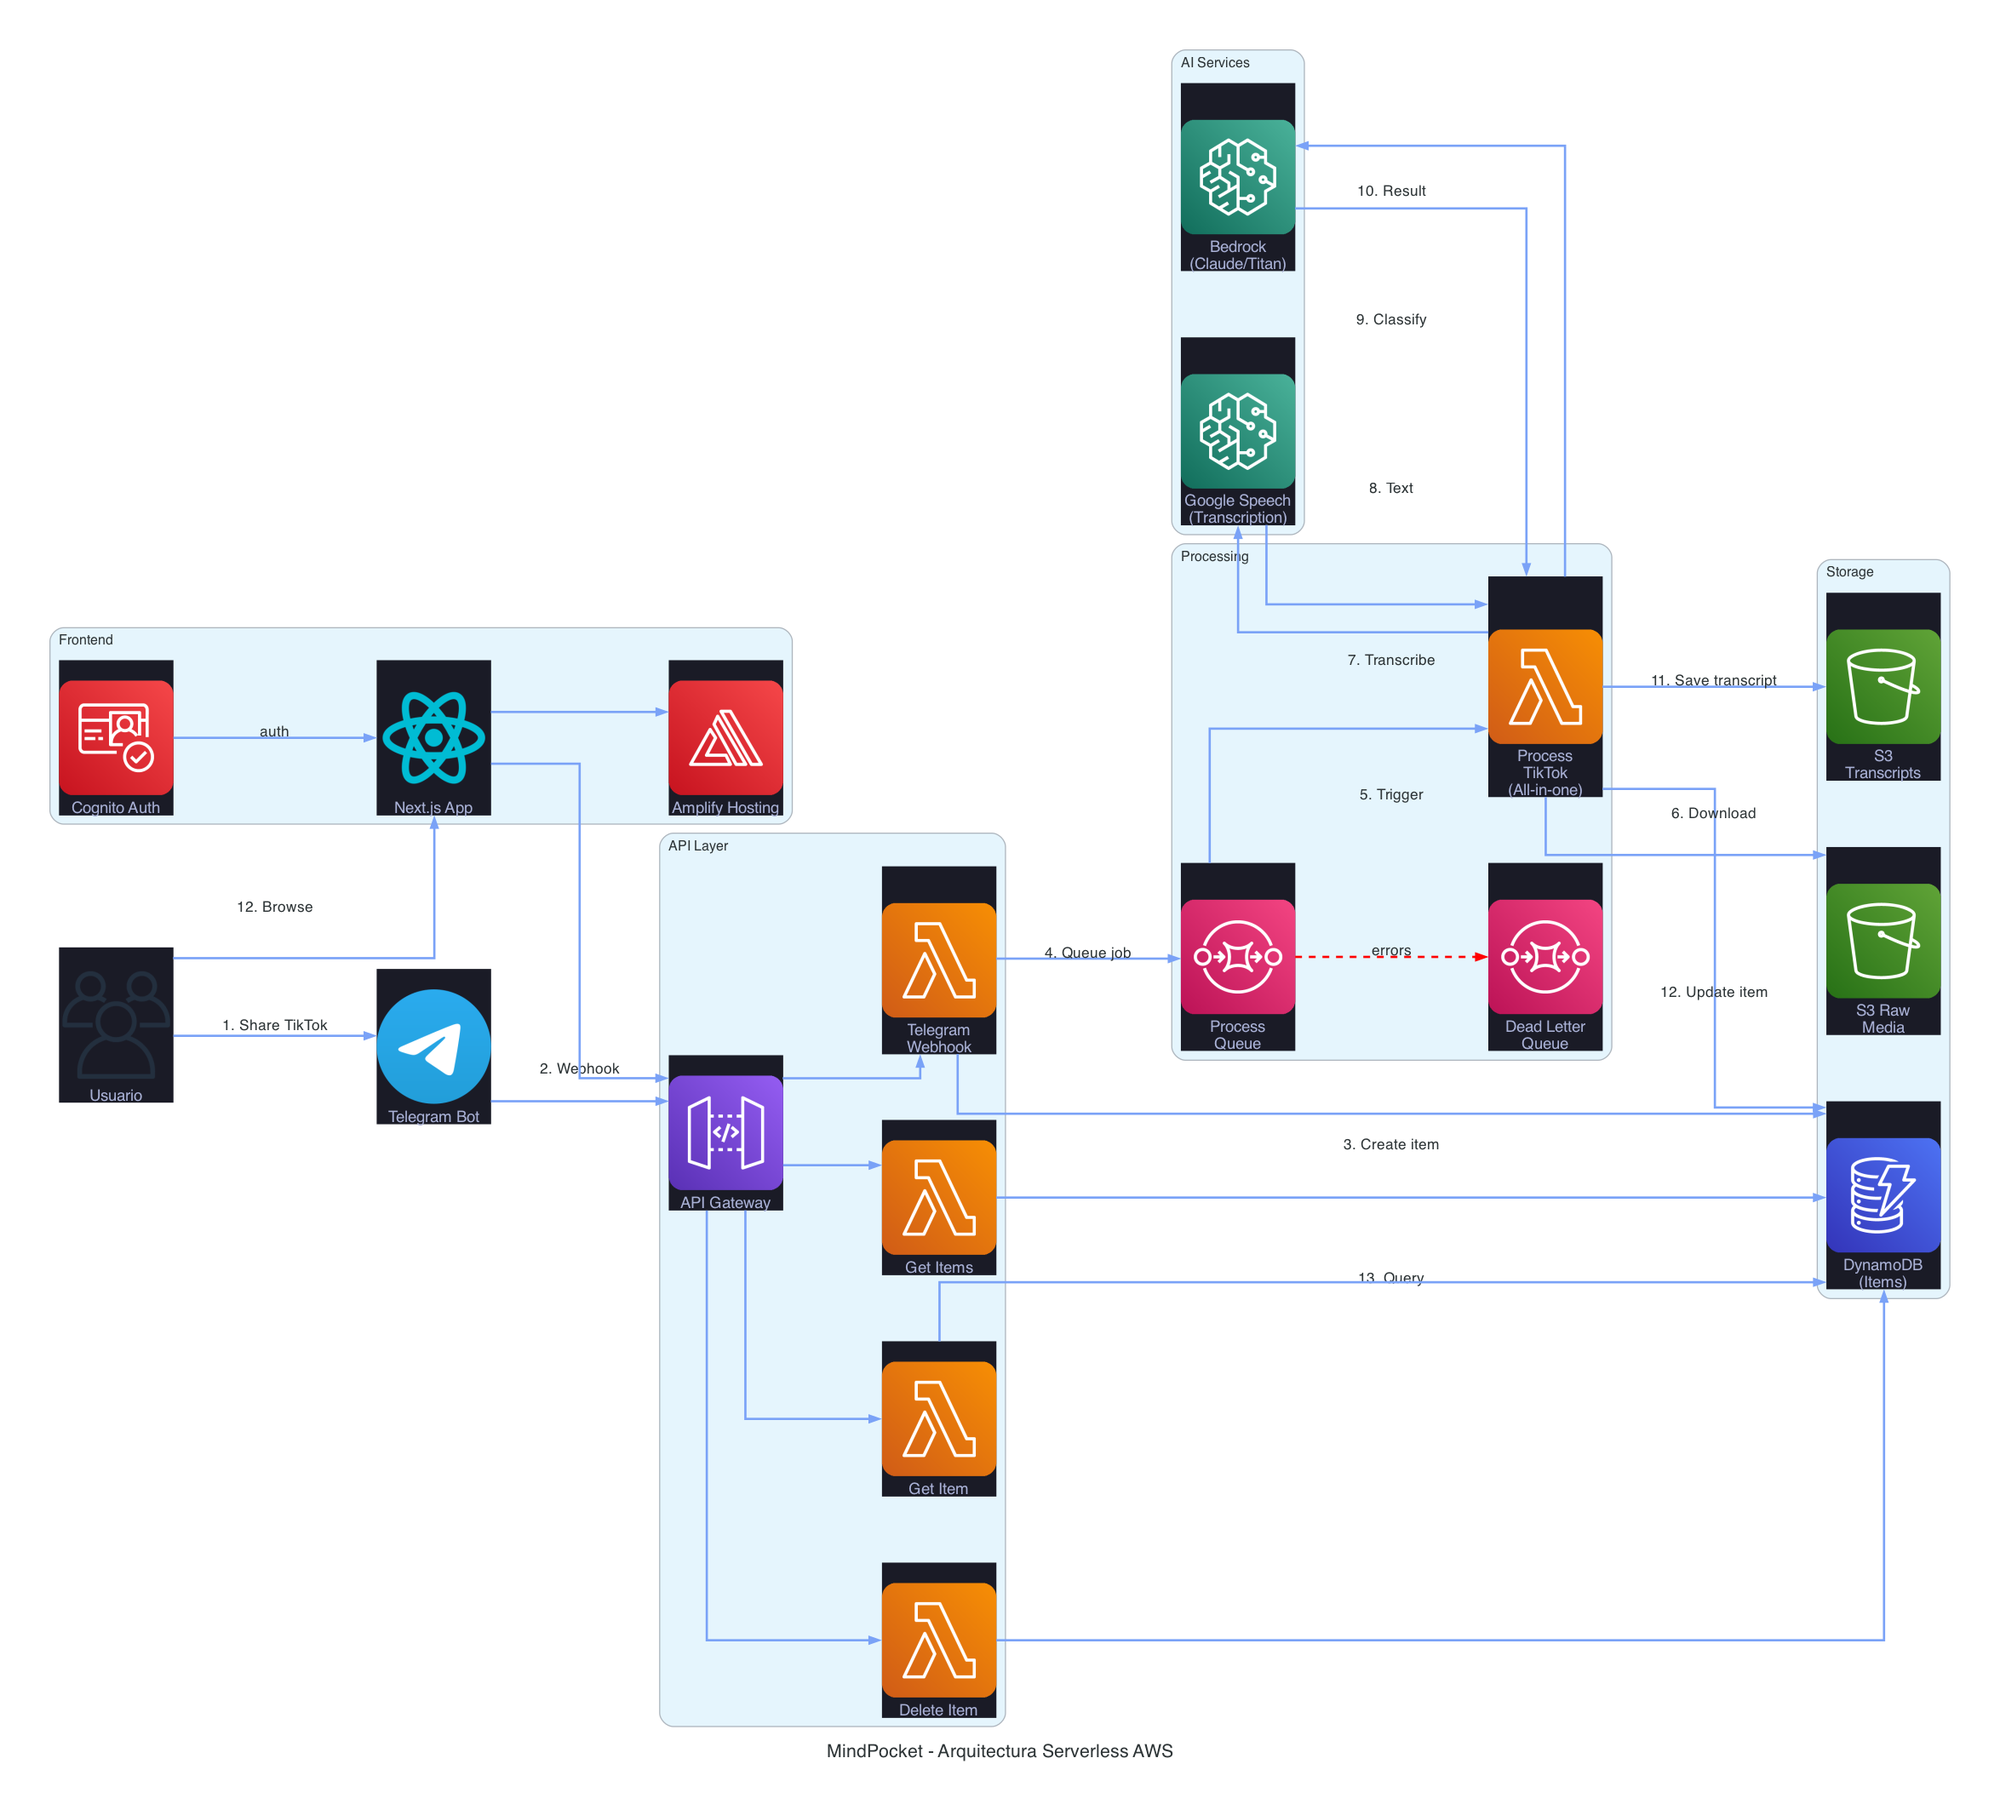
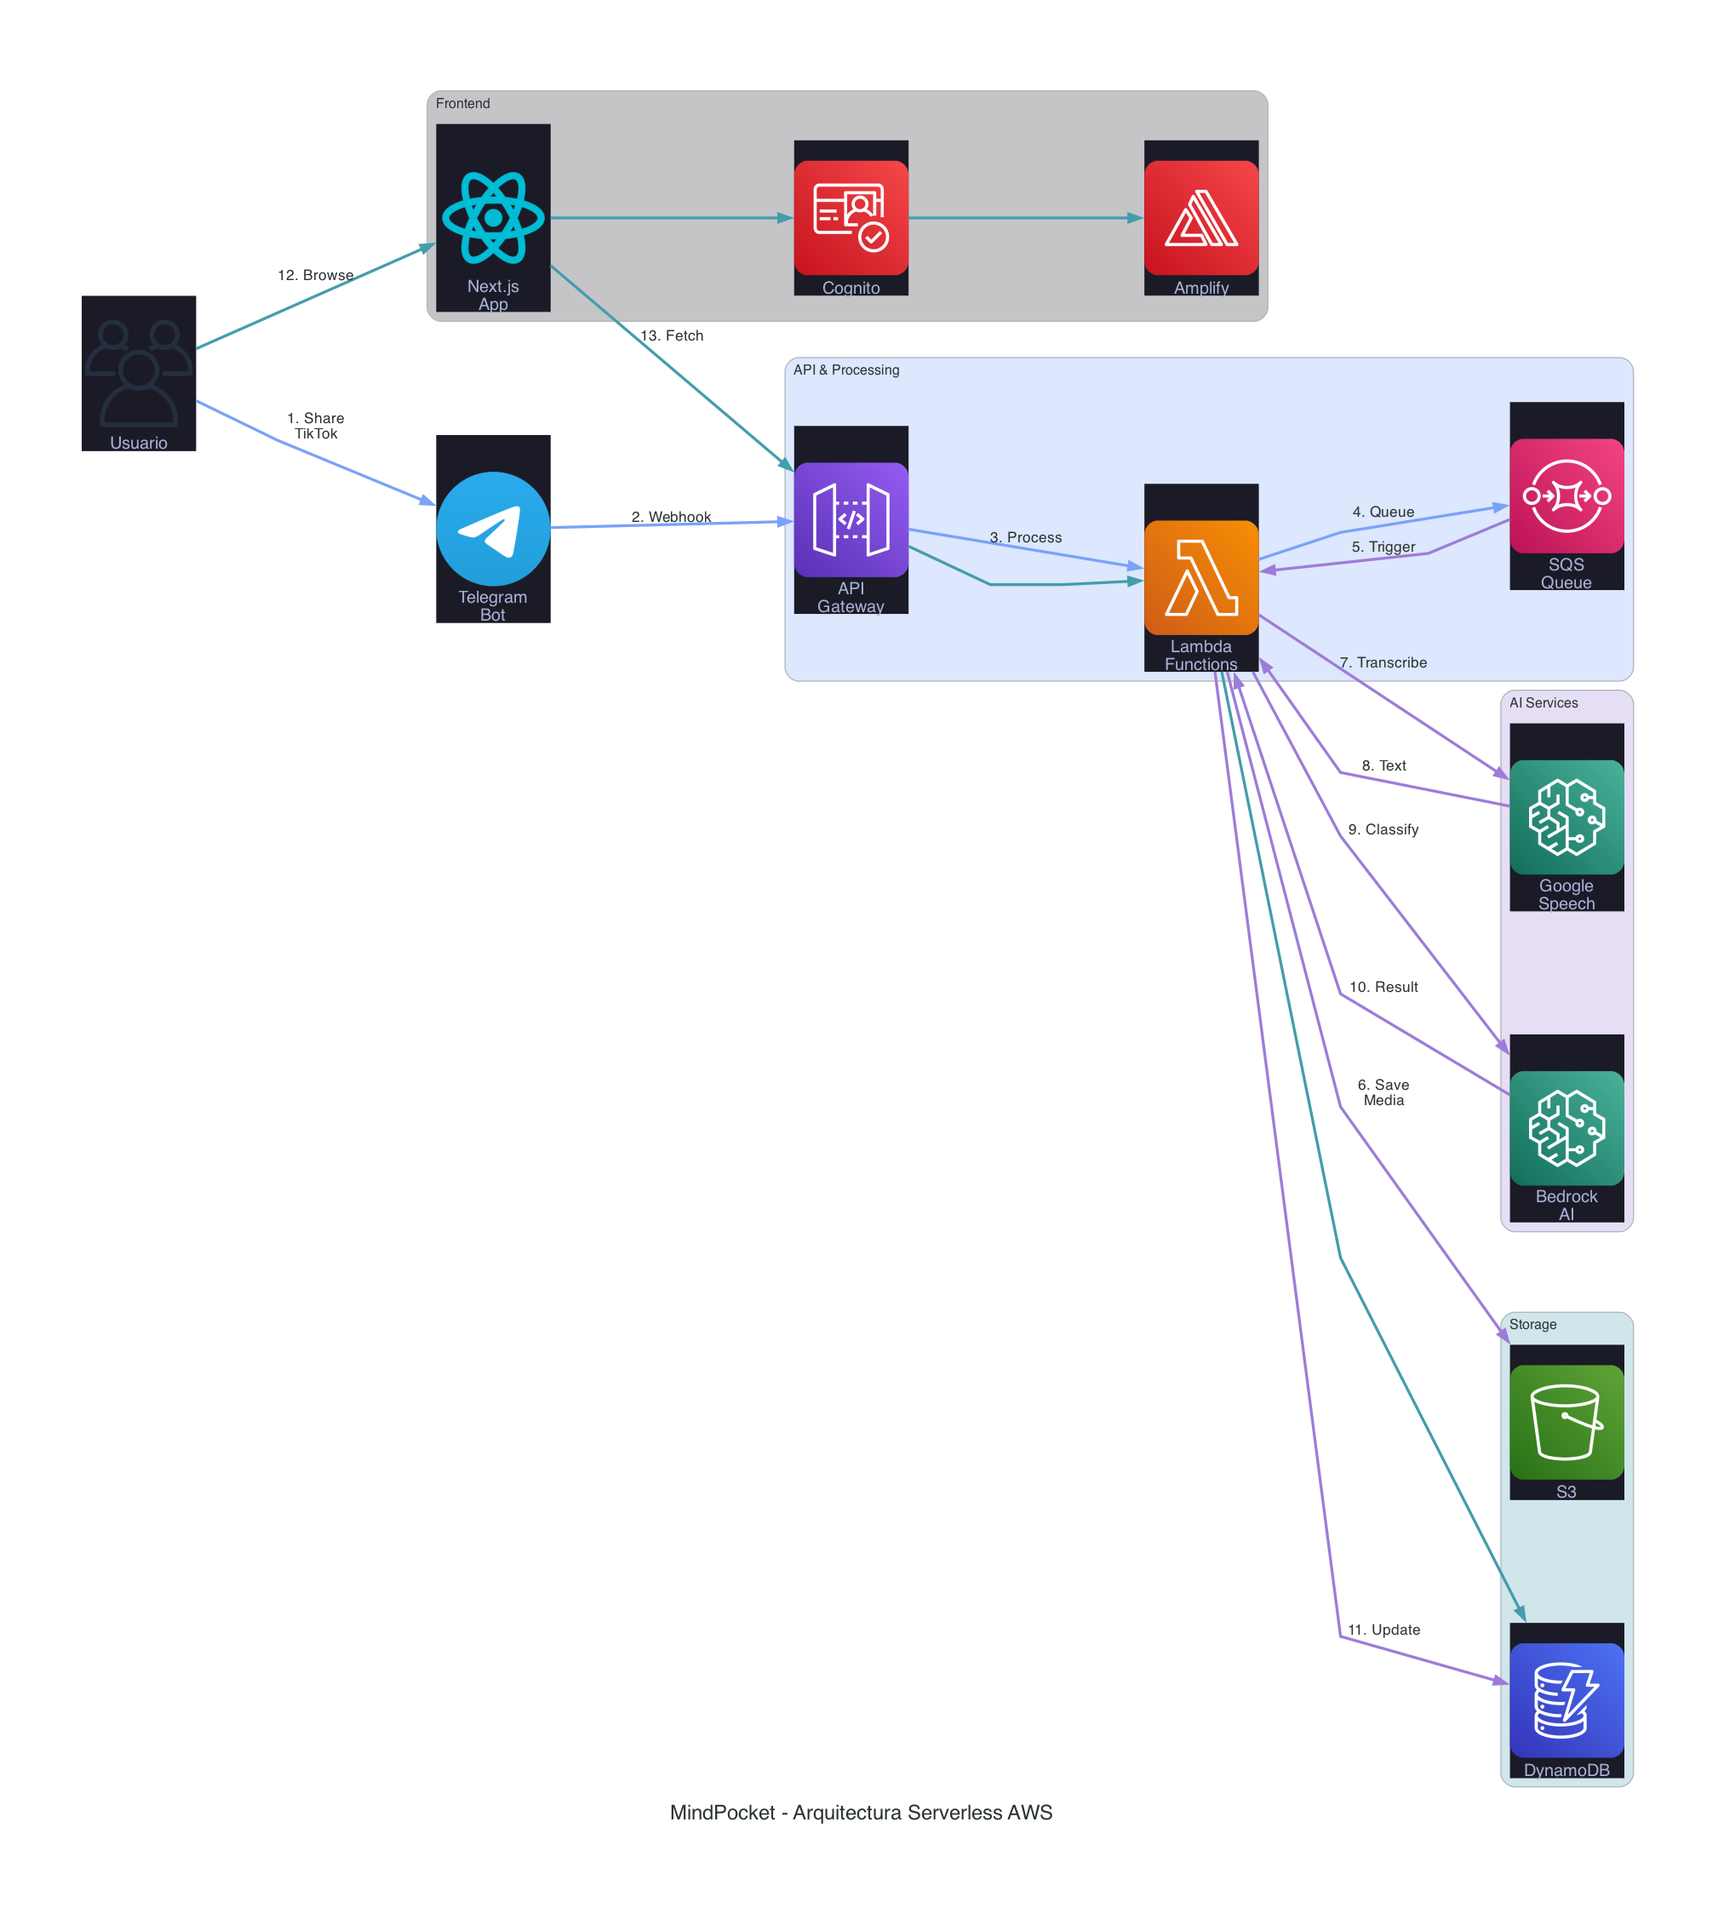
improve: simplify architecture diagram and optimize Slide6 layout

diff --git a/MindPocket-Slides-Hack112025/src/slides/Slide6.tsx b/MindPocket-Slides-Hack112025/src/slides/Slide6.tsx
@@ -1,73 +1,92 @@
-import { Cloud, Database, Cpu, Zap, Network } from 'lucide-react'
+import { Cloud, Database, Cpu, Zap, Network, ArrowRight } from 'lucide-react'
 
 export default function Slide6() {
   return (
-    <div className="max-w-7xl mx-auto space-y-6 h-full flex flex-col">
-      <div className="text-center space-y-2">
-        <div className="inline-flex items-center justify-center w-14 h-14 rounded-full bg-primary/20 mb-2">
-          <Cloud className="w-7 h-7 text-primary" />
+    <div className="max-w-7xl mx-auto h-full flex flex-col py-6">
+      {/* Header - Más compacto */}
+      <div className="text-center space-y-1 mb-4">
+        <div className="inline-flex items-center justify-center w-12 h-12 rounded-full bg-primary/20">
+          <Cloud className="w-6 h-6 text-primary" />
         </div>
-        <h1 className="text-4xl font-bold">
+        <h1 className="text-3xl font-bold">
           Arquitectura serverless en AWS
         </h1>
-        <p className="text-lg text-muted-foreground">
-          Escalable, eficiente y moderna
+        <p className="text-base text-muted-foreground">
+          Flujo completo de procesamiento
         </p>
       </div>
 
-      {/* Architecture Diagram */}
-      <div className="flex-1 flex items-center justify-center">
-        <div className="glass-card p-6 rounded-3xl w-full">
+      {/* Architecture Diagram - Más espacio */}
+      <div className="flex-1 flex items-center justify-center min-h-0">
+        <div className="glass-card p-4 rounded-2xl w-full h-full flex items-center justify-center">
           <img 
             src="/mindpocket_architecture.png" 
             alt="MindPocket Architecture Diagram"
-            className="w-full h-auto rounded-xl"
-            style={{ maxHeight: '550px', objectFit: 'contain' }}
+            className="max-w-full max-h-full object-contain"
           />
         </div>
       </div>
 
-      {/* Key Components - Compact */}
-      <div className="grid grid-cols-4 gap-4">
-        <div className="glass-card p-4 rounded-xl">
-          <div className="flex items-center gap-2 mb-2">
-            <Zap className="w-5 h-5 text-primary" />
-            <h3 className="text-sm font-semibold">Frontend</h3>
+      {/* Key Components - Grid simplificado */}
+      <div className="grid grid-cols-4 gap-3 mt-4">
+        <div className="glass-card p-3 rounded-xl">
+          <div className="flex items-center gap-2">
+            <Zap className="w-4 h-4 text-primary" />
+            <div>
+              <h3 className="text-xs font-semibold">Frontend</h3>
+              <p className="text-[10px] text-muted-foreground">Next.js + Amplify</p>
+            </div>
           </div>
-          <p className="text-xs text-muted-foreground">
-            Amplify + Cognito + Next.js
-          </p>
         </div>
 
-        <div className="glass-card p-4 rounded-xl">
-          <div className="flex items-center gap-2 mb-2">
-            <Cpu className="w-5 h-5 text-success" />
-            <h3 className="text-sm font-semibold">Backend</h3>
+        <div className="glass-card p-3 rounded-xl">
+          <div className="flex items-center gap-2">
+            <Cpu className="w-4 h-4 text-success" />
+            <div>
+              <h3 className="text-xs font-semibold">API & Processing</h3>
+              <p className="text-[10px] text-muted-foreground">Lambda + SQS</p>
+            </div>
           </div>
-          <p className="text-xs text-muted-foreground">
-            API Gateway + Lambda + SQS
-          </p>
         </div>
 
-        <div className="glass-card p-4 rounded-xl">
-          <div className="flex items-center gap-2 mb-2">
-            <Database className="w-5 h-5 text-chart-3" />
-            <h3 className="text-sm font-semibold">Datos & AI</h3>
+        <div className="glass-card p-3 rounded-xl">
+          <div className="flex items-center gap-2">
+            <Database className="w-4 h-4 text-chart-3" />
+            <div>
+              <h3 className="text-xs font-semibold">AI Services</h3>
+              <p className="text-[10px] text-muted-foreground">Google + Bedrock</p>
+            </div>
           </div>
-          <p className="text-xs text-muted-foreground">
-            S3 + Google Speech + Bedrock
-          </p>
         </div>
 
-        <div className="glass-card p-4 rounded-xl">
-          <div className="flex items-center gap-2 mb-2">
-            <Network className="w-5 h-5 text-chart-4" />
-            <h3 className="text-sm font-semibold">Integración</h3>
+        <div className="glass-card p-3 rounded-xl">
+          <div className="flex items-center gap-2">
+            <Network className="w-4 h-4 text-chart-4" />
+            <div>
+              <h3 className="text-xs font-semibold">Storage</h3>
+              <p className="text-[10px] text-muted-foreground">DynamoDB + S3</p>
+            </div>
           </div>
-          <p className="text-xs text-muted-foreground">
-            Telegram Bot API
-          </p>
         </div>
+      </div>
+
+      {/* Flow description */}
+      <div className="glass-card p-2 rounded-xl bg-primary/5 border border-primary/30 text-center mt-3">
+        <p className="text-xs flex items-center justify-center gap-2 text-muted-foreground">
+          <span>TikTok</span>
+          <ArrowRight className="w-3 h-3" />
+          <span>Telegram</span>
+          <ArrowRight className="w-3 h-3" />
+          <span>API</span>
+          <ArrowRight className="w-3 h-3" />
+          <span>Processing</span>
+          <ArrowRight className="w-3 h-3" />
+          <span>AI</span>
+          <ArrowRight className="w-3 h-3" />
+          <span>DynamoDB</span>
+          <ArrowRight className="w-3 h-3" />
+          <span>App</span>
+        </p>
       </div>
     </div>
   )

diff --git a/MindPocket-Slides-Hack112025/generate_architecture_diagram.py b/MindPocket-Slides-Hack112025/generate_architecture_diagram.py
@@ -1,6 +1,6 @@
 #!/usr/bin/env python3
 """
-Generate MindPocket Architecture Diagram
+Generate MindPocket Architecture Diagram - Simplified Version
 Requires: pip install diagrams
 """
 
@@ -12,34 +12,34 @@ from diagrams.aws.integration import SQS
 from diagrams.aws.network import APIGateway
 from diagrams.aws.security import Cognito
 from diagrams.aws.mobile import Amplify
-from diagrams.aws.ml import Transcribe, Sagemaker
+from diagrams.aws.ml import Sagemaker
 from diagrams.onprem.client import Users
 from diagrams.saas.chat import Telegram
 from diagrams.programming.framework import React
 
-# Configure diagram
+# Configure diagram - cleaner layout
 graph_attr = {
-    "fontsize": "16",
+    "fontsize": "18",
     "bgcolor": "transparent",
-    "pad": "0.5",
-    "splines": "ortho",
-    "nodesep": "0.8",
-    "ranksep": "1.2"
+    "pad": "1.0",
+    "splines": "polyline",
+    "nodesep": "1.5",
+    "ranksep": "2.0"
 }
 
 node_attr = {
-    "fontsize": "14",
+    "fontsize": "15",
     "style": "filled",
     "fillcolor": "#1a1b26",
     "fontcolor": "#a9b1d6",
     "color": "#7aa2f7",
-    "penwidth": "2"
+    "penwidth": "2.5"
 }
 
 edge_attr = {
     "color": "#7aa2f7",
-    "penwidth": "2",
-    "arrowsize": "0.8"
+    "penwidth": "2.5",
+    "arrowsize": "1.0"
 }
 
 with Diagram(
@@ -55,71 +55,47 @@ with Diagram(
     
     # Users & Input
     user = Users("Usuario")
-    telegram = Telegram("Telegram Bot")
+    telegram = Telegram("Telegram\nBot")
     
-    with Cluster("Frontend"):
-        amplify = Amplify("Amplify Hosting")
-        cognito = Cognito("Cognito Auth")
-        react = React("Next.js App")
-        
-        cognito >> Edge(label="auth") >> react
-        react >> amplify
+    with Cluster("Frontend", graph_attr={"bgcolor": "#1a1b2640"}):
+        react = React("Next.js\nApp")
+        amplify = Amplify("Amplify")
+        cognito = Cognito("Cognito")
     
-    with Cluster("API Layer"):
-        api_gateway = APIGateway("API Gateway")
-        telegram_lambda = Lambda("Telegram\nWebhook")
-        get_items_lambda = Lambda("Get Items")
-        get_item_lambda = Lambda("Get Item")
-        delete_lambda = Lambda("Delete Item")
+    with Cluster("API & Processing", graph_attr={"bgcolor": "#7aa2f740"}):
+        api_gateway = APIGateway("API\nGateway")
+        lambdas = Lambda("Lambda\nFunctions")
+        process_queue = SQS("SQS\nQueue")
     
-    with Cluster("Processing"):
-        process_queue = SQS("Process\nQueue")
-        dlq = SQS("Dead Letter\nQueue")
-        process_lambda = Lambda("Process\nTikTok\n(All-in-one)")
+    with Cluster("AI Services", graph_attr={"bgcolor": "#9d7cd840"}):
+        google_speech = Sagemaker("Google\nSpeech")
+        bedrock = Sagemaker("Bedrock\nAI")
     
-    with Cluster("AI Services"):
-        google_speech = Sagemaker("Google Speech\n(Transcription)")
-        bedrock = Sagemaker("Bedrock\n(Claude/Titan)")
+    with Cluster("Storage", graph_attr={"bgcolor": "#449dab40"}):
+        dynamodb = Dynamodb("DynamoDB")
+        s3 = S3("S3")
     
-    with Cluster("Storage"):
-        dynamodb = Dynamodb("DynamoDB\n(Items)")
-        raw_media_s3 = S3("S3 Raw\nMedia")
-        transcripts_s3 = S3("S3\nTranscripts")
+    # Main Flow: Share TikTok
+    user >> Edge(label="1. Share\nTikTok", color="#7aa2f7") >> telegram
+    telegram >> Edge(label="2. Webhook", color="#7aa2f7") >> api_gateway
+    api_gateway >> Edge(label="3. Process", color="#7aa2f7") >> lambdas
+    lambdas >> Edge(label="4. Queue", color="#7aa2f7") >> process_queue
     
-    # Flow: User sends TikTok link via Telegram
-    user >> Edge(label="1. Share TikTok") >> telegram
-    telegram >> Edge(label="2. Webhook") >> api_gateway
-    api_gateway >> telegram_lambda
+    # Processing Flow
+    process_queue >> Edge(label="5. Trigger", color="#9d7cd8") >> lambdas
+    lambdas >> Edge(label="6. Save\nMedia", color="#9d7cd8") >> s3
+    lambdas >> Edge(label="7. Transcribe", color="#9d7cd8") >> google_speech
+    google_speech >> Edge(label="8. Text", color="#9d7cd8") >> lambdas
+    lambdas >> Edge(label="9. Classify", color="#9d7cd8") >> bedrock
+    bedrock >> Edge(label="10. Result", color="#9d7cd8") >> lambdas
+    lambdas >> Edge(label="11. Update", color="#9d7cd8") >> dynamodb
     
-    # Flow: Lambda processes and queues
-    telegram_lambda >> Edge(label="3. Create item") >> dynamodb
-    telegram_lambda >> Edge(label="4. Queue job") >> process_queue
-    
-    # Flow: Process TikTok (All-in-one)
-    process_queue >> Edge(label="5. Trigger") >> process_lambda
-    process_lambda >> Edge(label="6. Download") >> raw_media_s3
-    
-    # Flow: Transcription & Classification (in same Lambda)
-    process_lambda >> Edge(label="7. Transcribe") >> google_speech
-    google_speech >> Edge(label="8. Text") >> process_lambda
-    process_lambda >> Edge(label="9. Classify") >> bedrock
-    bedrock >> Edge(label="10. Result") >> process_lambda
-    
-    # Flow: Save and Update
-    process_lambda >> Edge(label="11. Save transcript") >> transcripts_s3
-    process_lambda >> Edge(label="12. Update item") >> dynamodb
-    
-    # Error handling
-    process_queue >> Edge(label="errors", style="dashed", color="red") >> dlq
-    
-    # Flow: User views items
-    user >> Edge(label="12. Browse") >> react
-    react >> api_gateway
-    api_gateway >> get_items_lambda
-    get_items_lambda >> Edge(label="13. Query") >> dynamodb
-    
-    # CRUD operations
-    api_gateway >> get_item_lambda >> dynamodb
-    api_gateway >> delete_lambda >> dynamodb
+    # User Viewing Flow
+    user >> Edge(label="12. Browse", color="#449dab") >> react
+    react >> Edge(label="", color="#449dab") >> cognito
+    cognito >> Edge(label="", color="#449dab") >> amplify
+    react >> Edge(label="13. Fetch", color="#449dab") >> api_gateway
+    api_gateway >> Edge(label="", color="#449dab") >> lambdas
+    lambdas >> Edge(label="", color="#449dab") >> dynamodb
 
 print("✅ Diagram generated: public/mindpocket_architecture.png")
